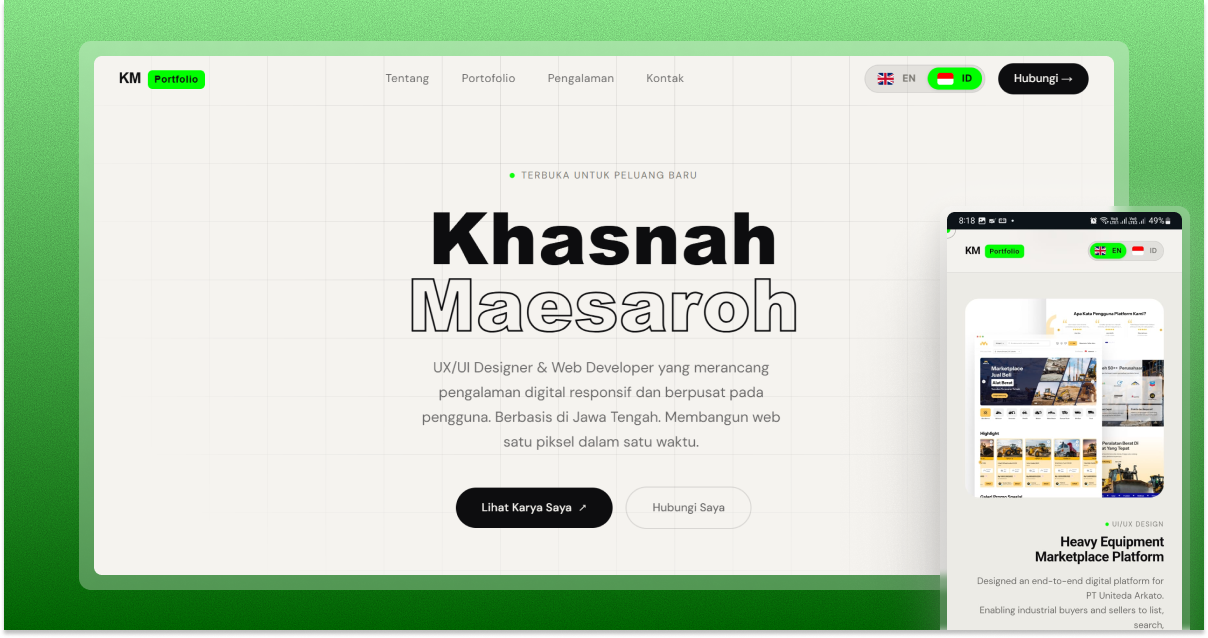
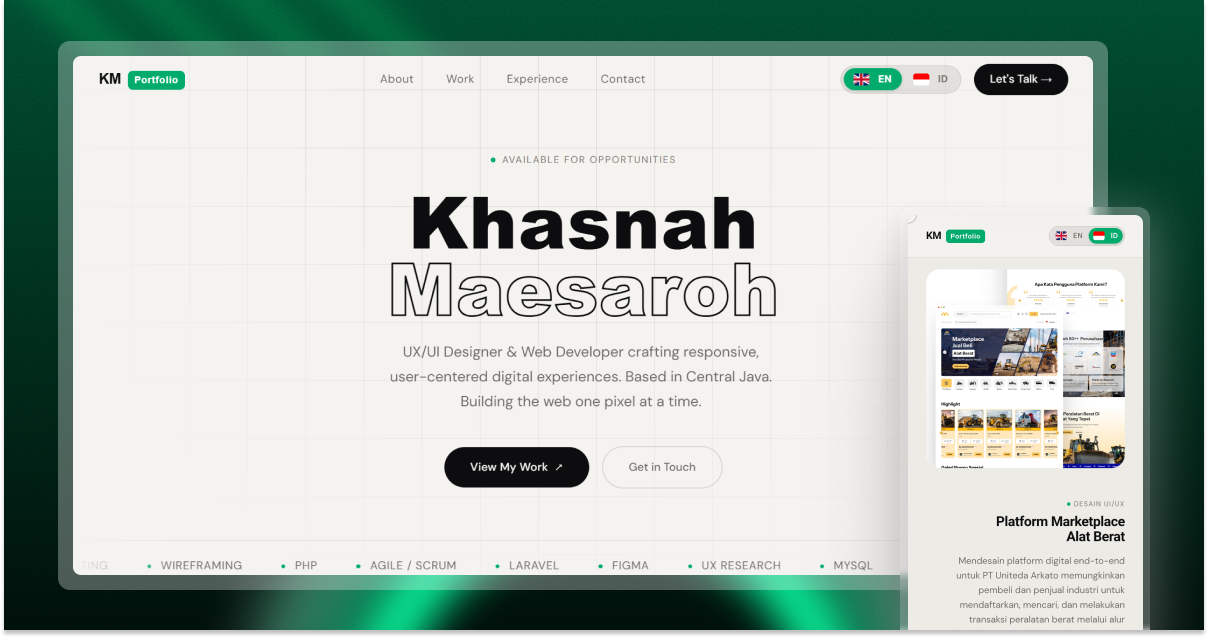
update

diff --git a/index.html b/index.html
@@ -736,6 +736,7 @@
       .skill-pill:hover {
         background: var(--c-accent);
         border-color: var(--c-accent);
+        color: var(--c-white);
       }
       .skill-pill.accent {
         background: var(--c-accent);
@@ -1550,13 +1551,13 @@
             </h2>
             <p class="about-text reveal reveal-delay-2">
               <span class="t-en"
-                >I'm a Web Developer & UX/UI Designer with 2+ years of
+                >I'm a UX/UI Designer & Web Developer with 2+ years of
                 experience building responsive, user-centric digital products. I
                 bridge the gap between design thinking and engineering, working
                 from wireframes to fully deployed systems.</span
               >
               <span class="t-id"
-                >Saya adalah Web Developer & UX/UI Designer dengan pengalaman 2
+                >Saya adalah UX/UI Designer & Web Developer dengan pengalaman 2
                 tahun membangun produk digital yang responsif dan berpusat pada
                 pengguna. Saya menjembatani antara design thinking dan rekayasa
                 perangkat lunak, dari wireframe hingga sistem yang siap
